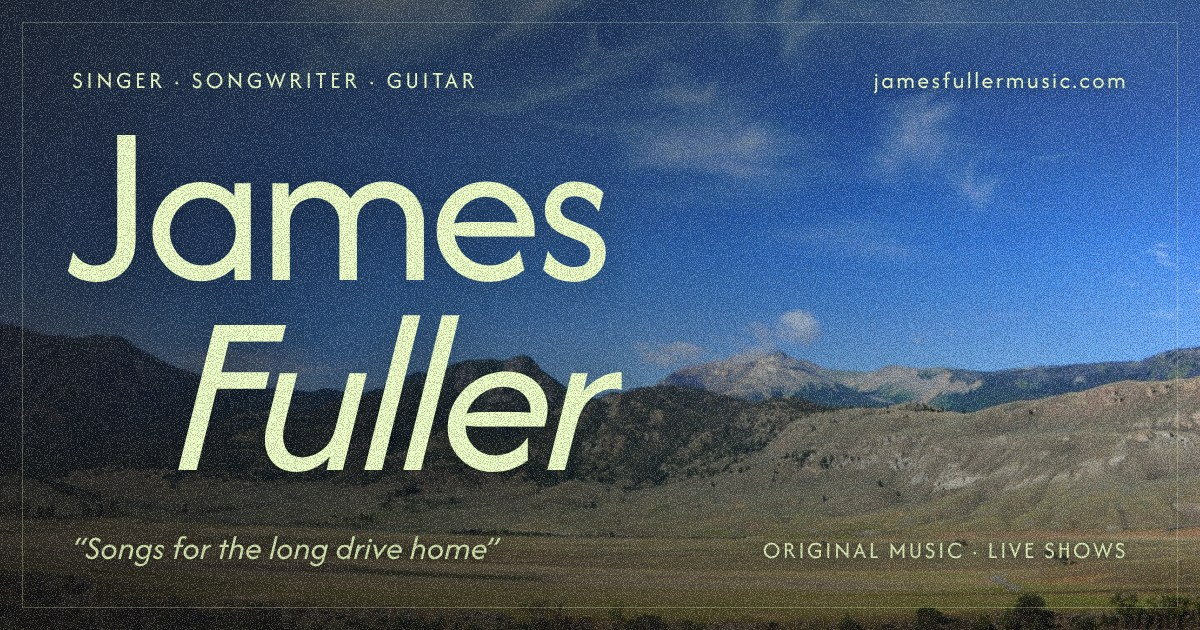
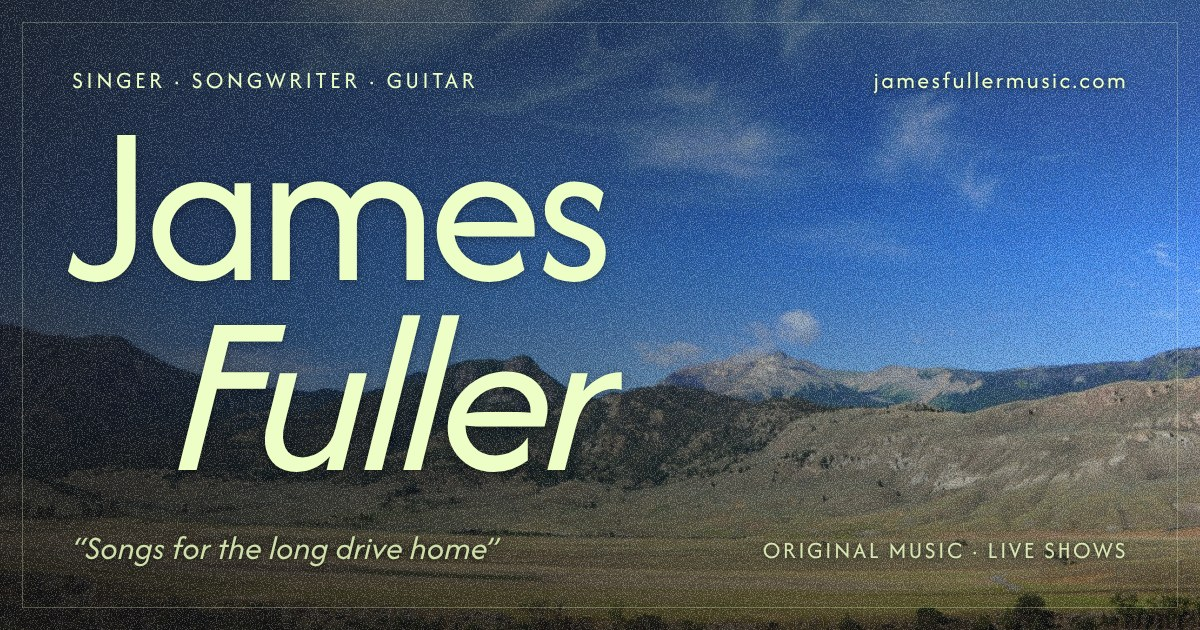
Link preview: grain only on the photo, text kept crisp above it
Claude-Session: https://claude.ai/code/session_01J58zr9QarnNZC2wYJXgcFk

diff --git a/scripts/og-image.html b/scripts/og-image.html
@@ -15,27 +15,28 @@
       linear-gradient(90deg, rgba(21,21,21,.78) 0%, rgba(21,21,21,.42) 50%, rgba(21,21,21,0) 100%),
       linear-gradient(0deg, rgba(21,21,21,.62) 0%, rgba(21,21,21,0) 40%),
       linear-gradient(180deg, rgba(33,39,19,.35), rgba(33,39,19,.0) 40%); }
+  .eyebrow, .domain, .name, .tag, .meta, .frame { z-index: 5; }
   .eyebrow { position: absolute; left: 72px; top: 64px; font-size: 24px; letter-spacing: .14em; text-transform: uppercase; color: var(--lime); }
-  .domain { position: absolute; right: 72px; top: 64px; font-size: 24px; letter-spacing: .1em; color: var(--lime); text-shadow: 0 1px 12px rgba(0,0,0,.5); }
-  .name { position: absolute; left: 66px; top: 108px; color: var(--lime); font-size: 232px; line-height: .82; letter-spacing: -.04em; text-shadow: 0 4px 40px rgba(0,0,0,.35); }
+  .domain { position: absolute; right: 72px; top: 64px; font-size: 24px; letter-spacing: .1em; color: var(--lime); text-shadow: 0 1px 6px rgba(0,0,0,.7); }
+  .name { position: absolute; left: 66px; top: 108px; color: var(--lime); font-size: 232px; line-height: .82; letter-spacing: -.04em; text-shadow: 0 2px 10px rgba(0,0,0,.35); }
   .name i { display: block; padding-left: 104px; }
-  .tag { position: absolute; left: 72px; bottom: 60px; font-size: 34px; font-style: italic; color: var(--text); text-shadow: 0 1px 14px rgba(0,0,0,.6); }
-  .meta { position: absolute; right: 72px; bottom: 64px; font-size: 24px; letter-spacing: .1em; color: var(--lime); opacity: .85; text-shadow: 0 1px 12px rgba(0,0,0,.6); }
+  .tag { position: absolute; left: 72px; bottom: 60px; font-size: 34px; font-style: italic; color: var(--text); text-shadow: 0 1px 6px rgba(0,0,0,.7); }
+  .meta { position: absolute; right: 72px; bottom: 64px; font-size: 24px; letter-spacing: .1em; color: var(--lime); opacity: .85; text-shadow: 0 1px 6px rgba(0,0,0,.7); }
   .frame { position: absolute; inset: 22px; border: 1px solid rgba(237,255,198,.28); pointer-events: none; }
   svg.grain { position: absolute; inset: 0; width: 100%; height: 100%; pointer-events: none; }
 </style></head>
 <body><div class="card">
   <div class="photo"></div><div class="wash"></div>
+  <!-- film grain: light + dark speckle, same recipe as the site. Sits on the photo only, UNDER the text. -->
+  <svg class="grain" xmlns="http://www.w3.org/2000/svg" style="opacity:.2">
+    <filter id="a" x="0" y="0" width="100%" height="100%"><feTurbulence type="fractalNoise" baseFrequency=".85" numOctaves="2" seed="3"/><feColorMatrix type="matrix" values="0 0 0 0 1  0 0 0 0 1  0 0 0 0 1  7 0 0 0 -3.5"/></filter>
+    <filter id="b" x="0" y="0" width="100%" height="100%"><feTurbulence type="fractalNoise" baseFrequency=".85" numOctaves="2" seed="9"/><feColorMatrix type="matrix" values="0 0 0 0 0  0 0 0 0 0  0 0 0 0 0  -7 0 0 0 3.5"/></filter>
+    <rect width="100%" height="100%" filter="url(#a)"/><rect width="100%" height="100%" filter="url(#b)"/>
+  </svg>
   <div class="eyebrow">Singer · Songwriter · Guitar</div>
   <div class="domain">jamesfullermusic.com</div>
   <div class="name">James<i>Fuller</i></div>
   <div class="tag">“Songs for the long drive home”</div>
   <div class="meta">ORIGINAL MUSIC · LIVE SHOWS</div>
   <div class="frame"></div>
-  <!-- film grain: light + dark speckle, same recipe as the site -->
-  <svg class="grain" xmlns="http://www.w3.org/2000/svg" style="opacity:.2">
-    <filter id="a" x="0" y="0" width="100%" height="100%"><feTurbulence type="fractalNoise" baseFrequency=".85" numOctaves="2" seed="3"/><feColorMatrix type="matrix" values="0 0 0 0 1  0 0 0 0 1  0 0 0 0 1  7 0 0 0 -3.5"/></filter>
-    <filter id="b" x="0" y="0" width="100%" height="100%"><feTurbulence type="fractalNoise" baseFrequency=".85" numOctaves="2" seed="9"/><feColorMatrix type="matrix" values="0 0 0 0 0  0 0 0 0 0  0 0 0 0 0  -7 0 0 0 3.5"/></filter>
-    <rect width="100%" height="100%" filter="url(#a)"/><rect width="100%" height="100%" filter="url(#b)"/>
-  </svg>
 </div></body></html>
